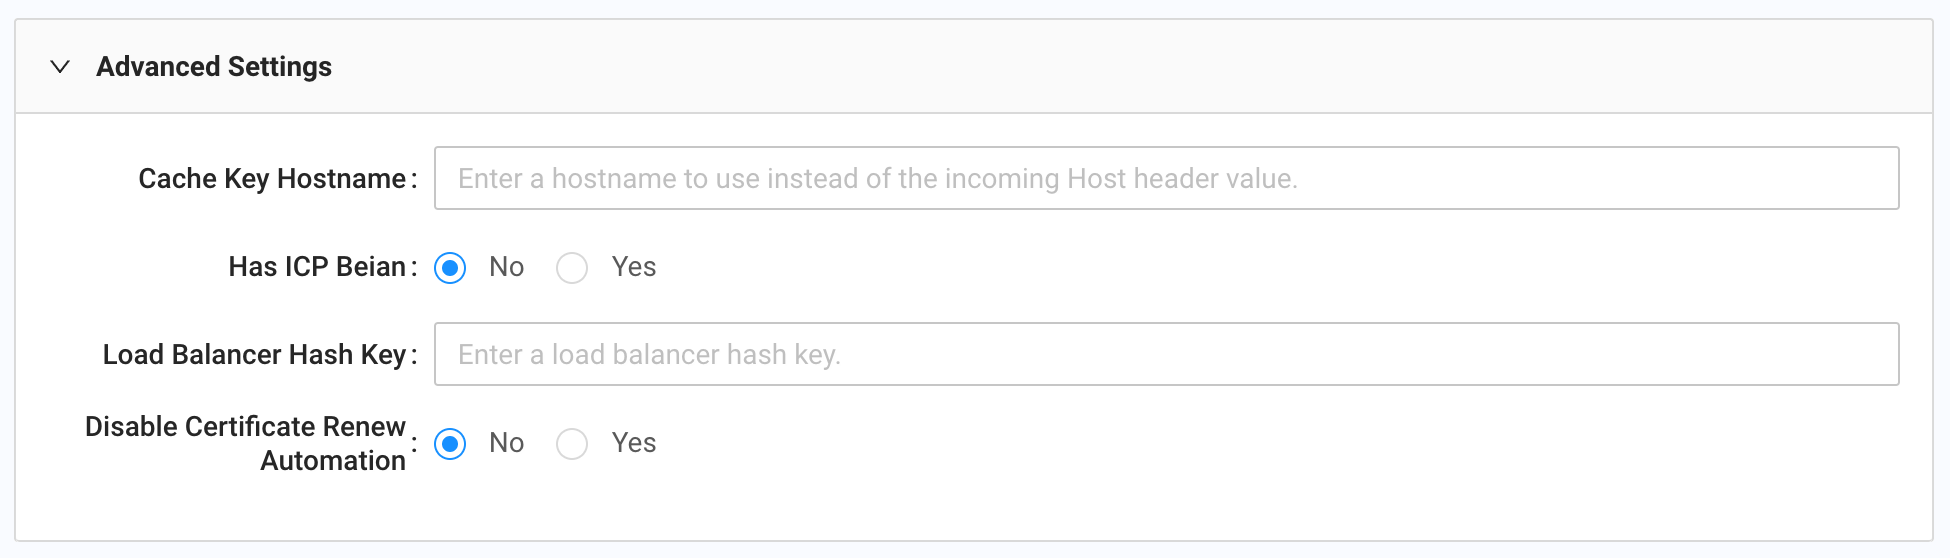
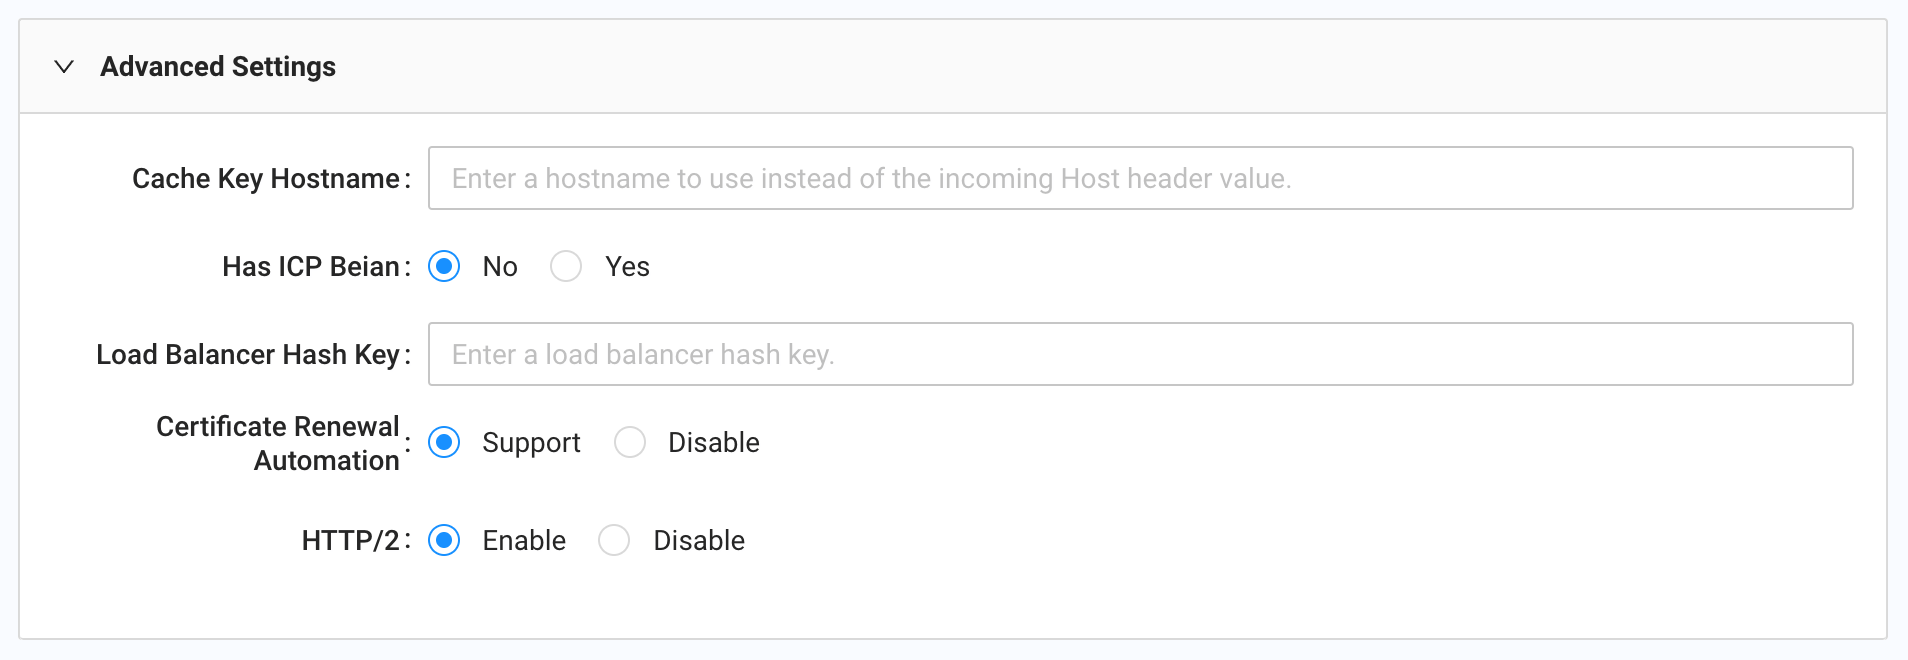
Covers new HTTP/2 option for properties advanced settings

diff --git a/docs/portal/edge-configurations/advanced-settings.md b/docs/portal/edge-configurations/advanced-settings.md
@@ -5,4 +5,5 @@
 | Cache Key Hostname      | Enter the hostname to use in the cache key. By default, the incoming Host Header value is used. The cache key is the index to the content stored in the server cache.|
 | Has ICP Beian           | Specify whether all hostnames in this property have [Beian in China](</docs/edge-logic/faq.md#china-delivery-and-beian>). <ul><li>If **No** is selected, the CDN360 proxy servers located in mainland China will not serve this property in order to abide with the laws in China. All visitors will be served by servers outside China.</ul></li> <ul><li>If **Yes** is selected, the CDN360 API server confirms the Beian status of all hostnames. Once confirmed, visitors in mainland China will be served by the CDN360 servers in mainland China.|</ul></li>
 | Load Balancer Hash Key | CDN360 PoPs use multiple tiers of load balancing to distribute client requests to different servers. By default, consistent hashing is used, with the URL used as the hash key. Users with additional load balancing requirements can use this field to add variables to the hash key to distribute requests more evenly. One example that can benefit from this feature is when all requests carry the same URL, but use a particular header to indicate the resources. By default, this field is empty. <br><br>Values entered in this field must meet the following requirements.<ul><li>Contain alphanumeric characters and an underscore, equals sign, dollar sign, and ampersand.</br><li>Variable names must be: `$http_name`, `$cookie_name`, or `$arg_name`.<li>At least one variable must be specified. No more than three are permitted.<li>The total length value cannot exceed 100 characters.<li>The following examples show valid values:<br>`$http_abc`<br>`abc=$http_abc&def=$http_def&`<br>`c_123=$cookie_123`<br>`abc=$http_abc=$http_def`<br>`$http_abc&$http_def`<br></ul>
-| Disable Certificate Renew Automation | By default, CDN360 takes control of the contents under the ``/.well-known/{acme-challenge, pki-validation}`` directories to support [certificate auto-renew](</docs/portal/certificates/auto-renewal.md>) for properties. If you need to manage these two directories by yourself on the origin (for example, to implement your own certificate auto-renew mechanism), you can use this configuration option to disable the default behavior. <ul><li>If **No** is selected, CDN360 takes control of the two "special" directories to support auto-renewing of the property's certificate. This is the default setting.</ul></li> <ul><li>If **Yes** is selected, CDN360 releases control of these special directories to the origin.|</ul></li>
+| Certificate Renew Automation | By default, CDN360 takes control of the contents under the ``/.well-known/{acme-challenge, pki-validation}`` directories to support [certificate auto-renew](</docs/portal/certificates/auto-renewal.md>) for properties. If you need to manage these two directories by yourself on the origin (for example, to implement your own certificate auto-renew mechanism), you can use this configuration option to disable the default behavior. <ul><li>If **Support** is selected, CDN360 takes control of the two "special" directories to support auto-renewing of the property's certificate. This is the default setting.</ul></li> <ul><li>If **Disable** is selected, CDN360 releases control of these special directories to the origin.|</ul>
+| HTTP/2 | Use the buttons to enable or disable the HTTP/2 protocol. If you disable HTTP/2, HTTP/1.1 is used<br></ul></li>

diff --git a/docs/portal/edge-configurations/creating-property.md b/docs/portal/edge-configurations/creating-property.md
@@ -63,6 +63,8 @@ If you signed an agreement with CDNetworks for accessing the real-time log, use 
 
 **Load Balancer Hash Key:** CDN360 uses multiple tiers of load balancing to distribute client requests to different servers, with  consistent hashing used in many of these places. By default, the URL is used as the hash key, which should be satisfactory in most cases. However, you can define additional variables to be added to the hash key to distribute the requests more evenly. One typical use case is when all requests carry the same URL, but use a particular header field to indicate different resources. In general, the variable(s) specified here should be a subset of the variables you enter [into the cache key](</docs/edge-logic/faq.md#how-do-you-include-query-parameters-andor-request-headers-in-the-cache-key>). Only the following variables are supported: `$http_*`, `$cookie_*`, `$arg_*`.
 
- **Disable Certificate Renew Automation:** By default, CDN360 takes control of the contents under the ``/.well-known/{acme-challenge, pki-validation}`` directories to support [certificate auto-renew](</docs/portal/certificates/auto-renewal.md>) for properties. If you need to manage these two directories by yourself on the origin (for example, to implement your own certificate auto-renew mechanism), you can use this configuration option to disable the default behavior. <ul><li>If **No** is selected, CDN360 takes control of the two "special" directories to support auto-renewing of the property's certificate. This is the default setting.</ul></li> <ul><li>If **Yes** is selected, CDN360 releases control of these special directories to the origin.
+ **Certificate Renew Automation:** By default, CDN360 takes control of the contents under the ``/.well-known/{acme-challenge, pki-validation}`` directories to support [certificate auto-renew](</docs/portal/certificates/auto-renewal.md>) for properties. If you need to manage these two directories by yourself on the origin (for example, to implement your own certificate auto-renew mechanism), you can use this configuration option to disable the default behavior. <ul><li>If **Support** is selected, CDN360 takes control of the two "special" directories to support auto-renewing of the property's certificate. This is the default setting.</ul></li> <ul><li>If **Disable** is selected, CDN360 releases control of these special directories to the origin.</ul></li>
+
+ **HTTP/2:** Use the radio buttons to enable or disable the HTTP/2 protocol. HTTP/2 is enabled by default. If disabled, HTTP/1.1 is used. 
 
 <p align=center><img src="/docs/resources/images/edge-configurations/property-advanced-settings.png" alt="Property Advanced Settings" width="700"></p>
